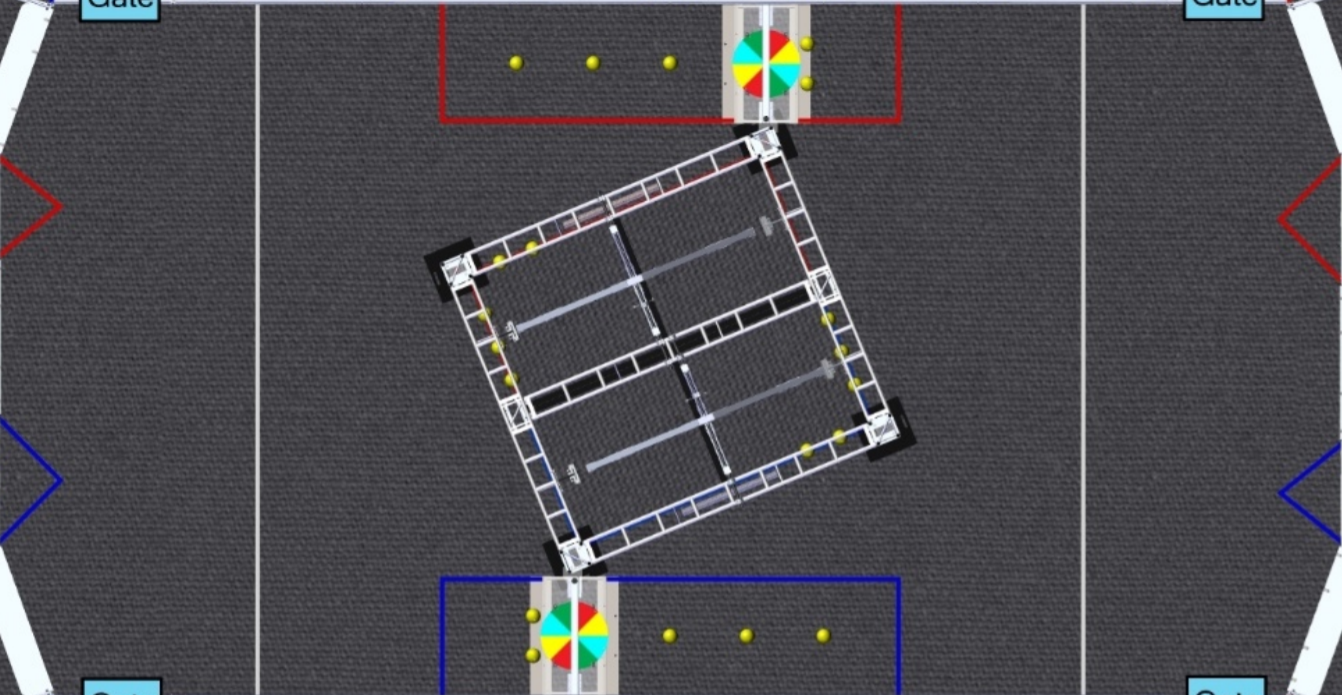
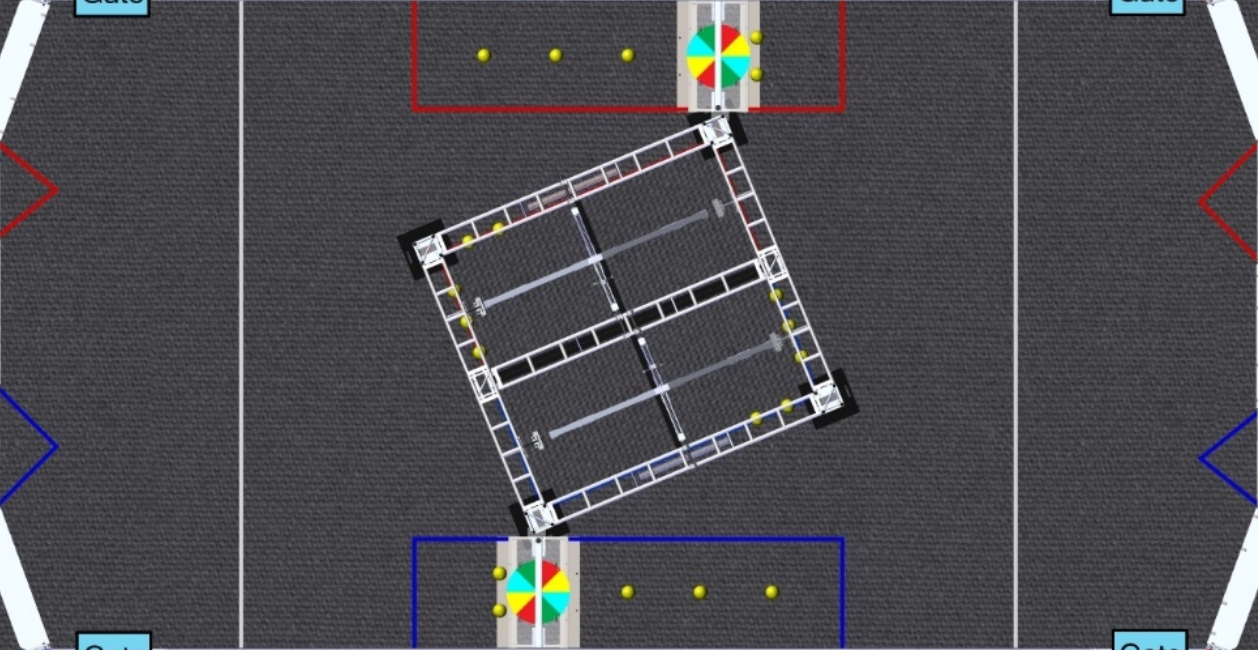
fixed field dimensions for 2020

diff --git a/field.css b/field.css
@@ -20,8 +20,8 @@ body {
 	top: 0;
 	left: 0;
 	background: rgba(0,0,0,0);
-	width: 648px;
-	height: 324px;
+	width: 629.25px;
+	height: 323.25px;
 }
 #robot, #pathHead {
 	border-color: #2222FF77;
@@ -222,7 +222,7 @@ img.field {
 .autocomplete {
     /*the container must be positioned relative:*/
     position: relative;
-    display: inline-block;
+    /*display: inline-block;*/
   }
 
 .autocomplete-items {
